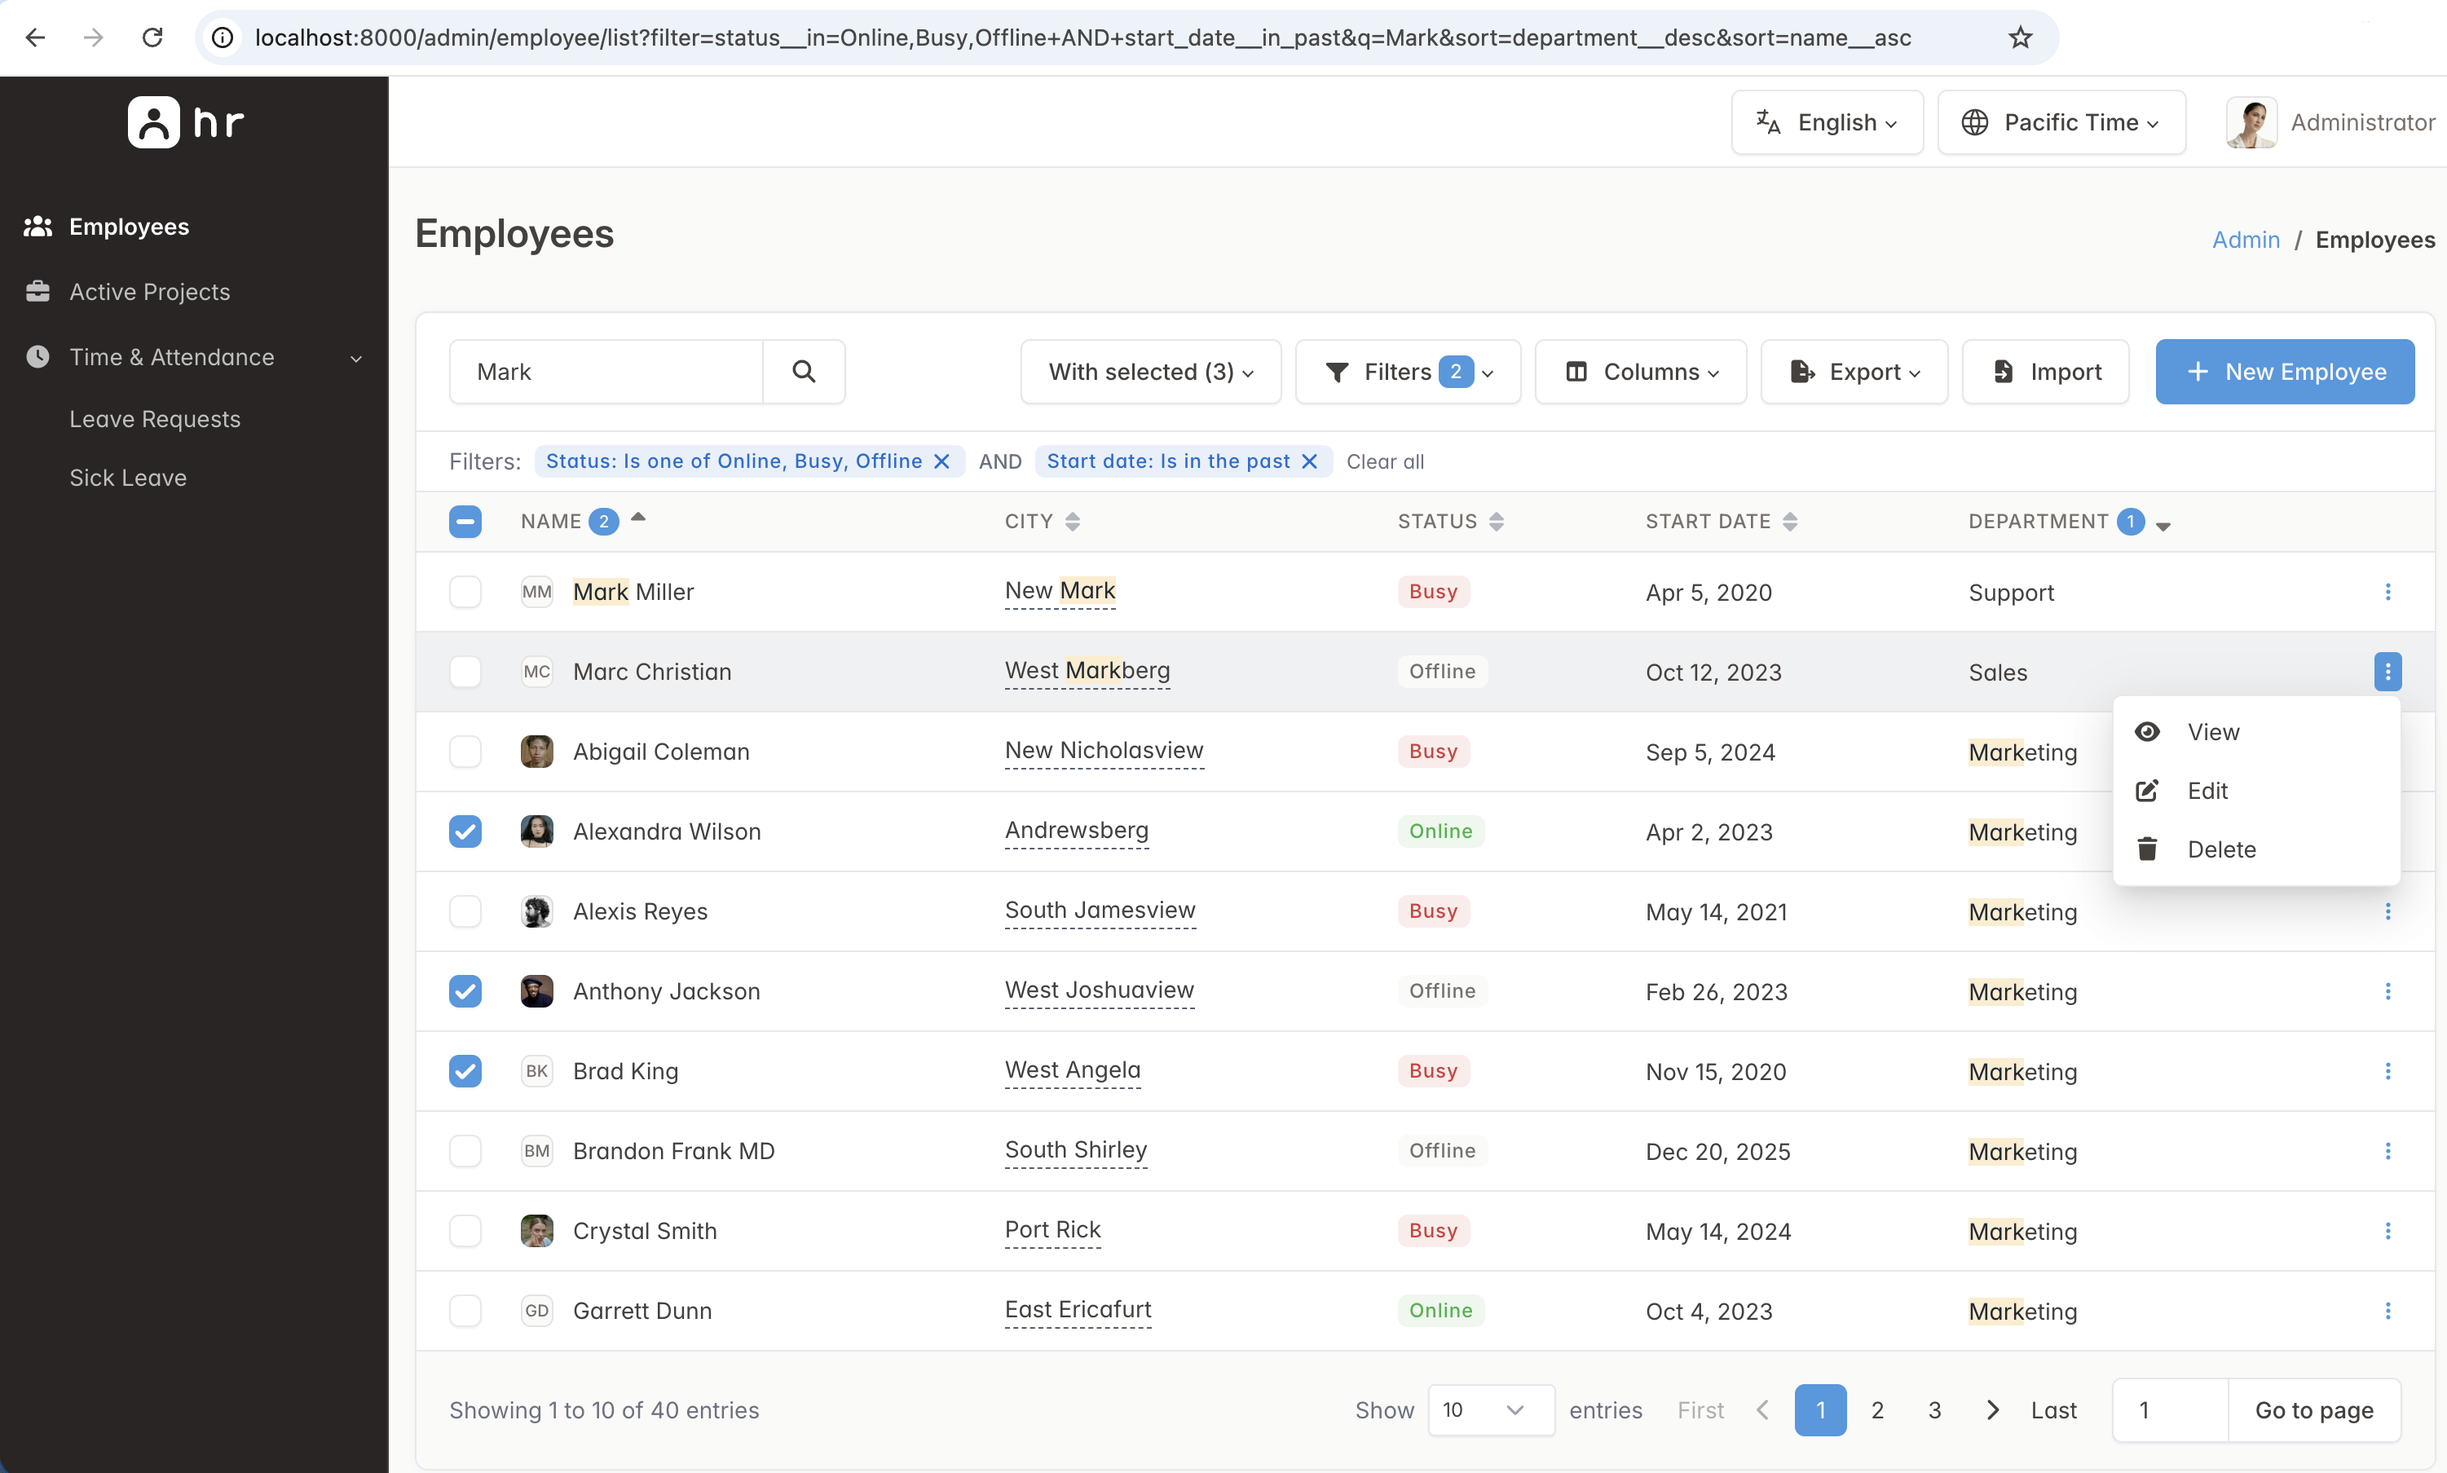
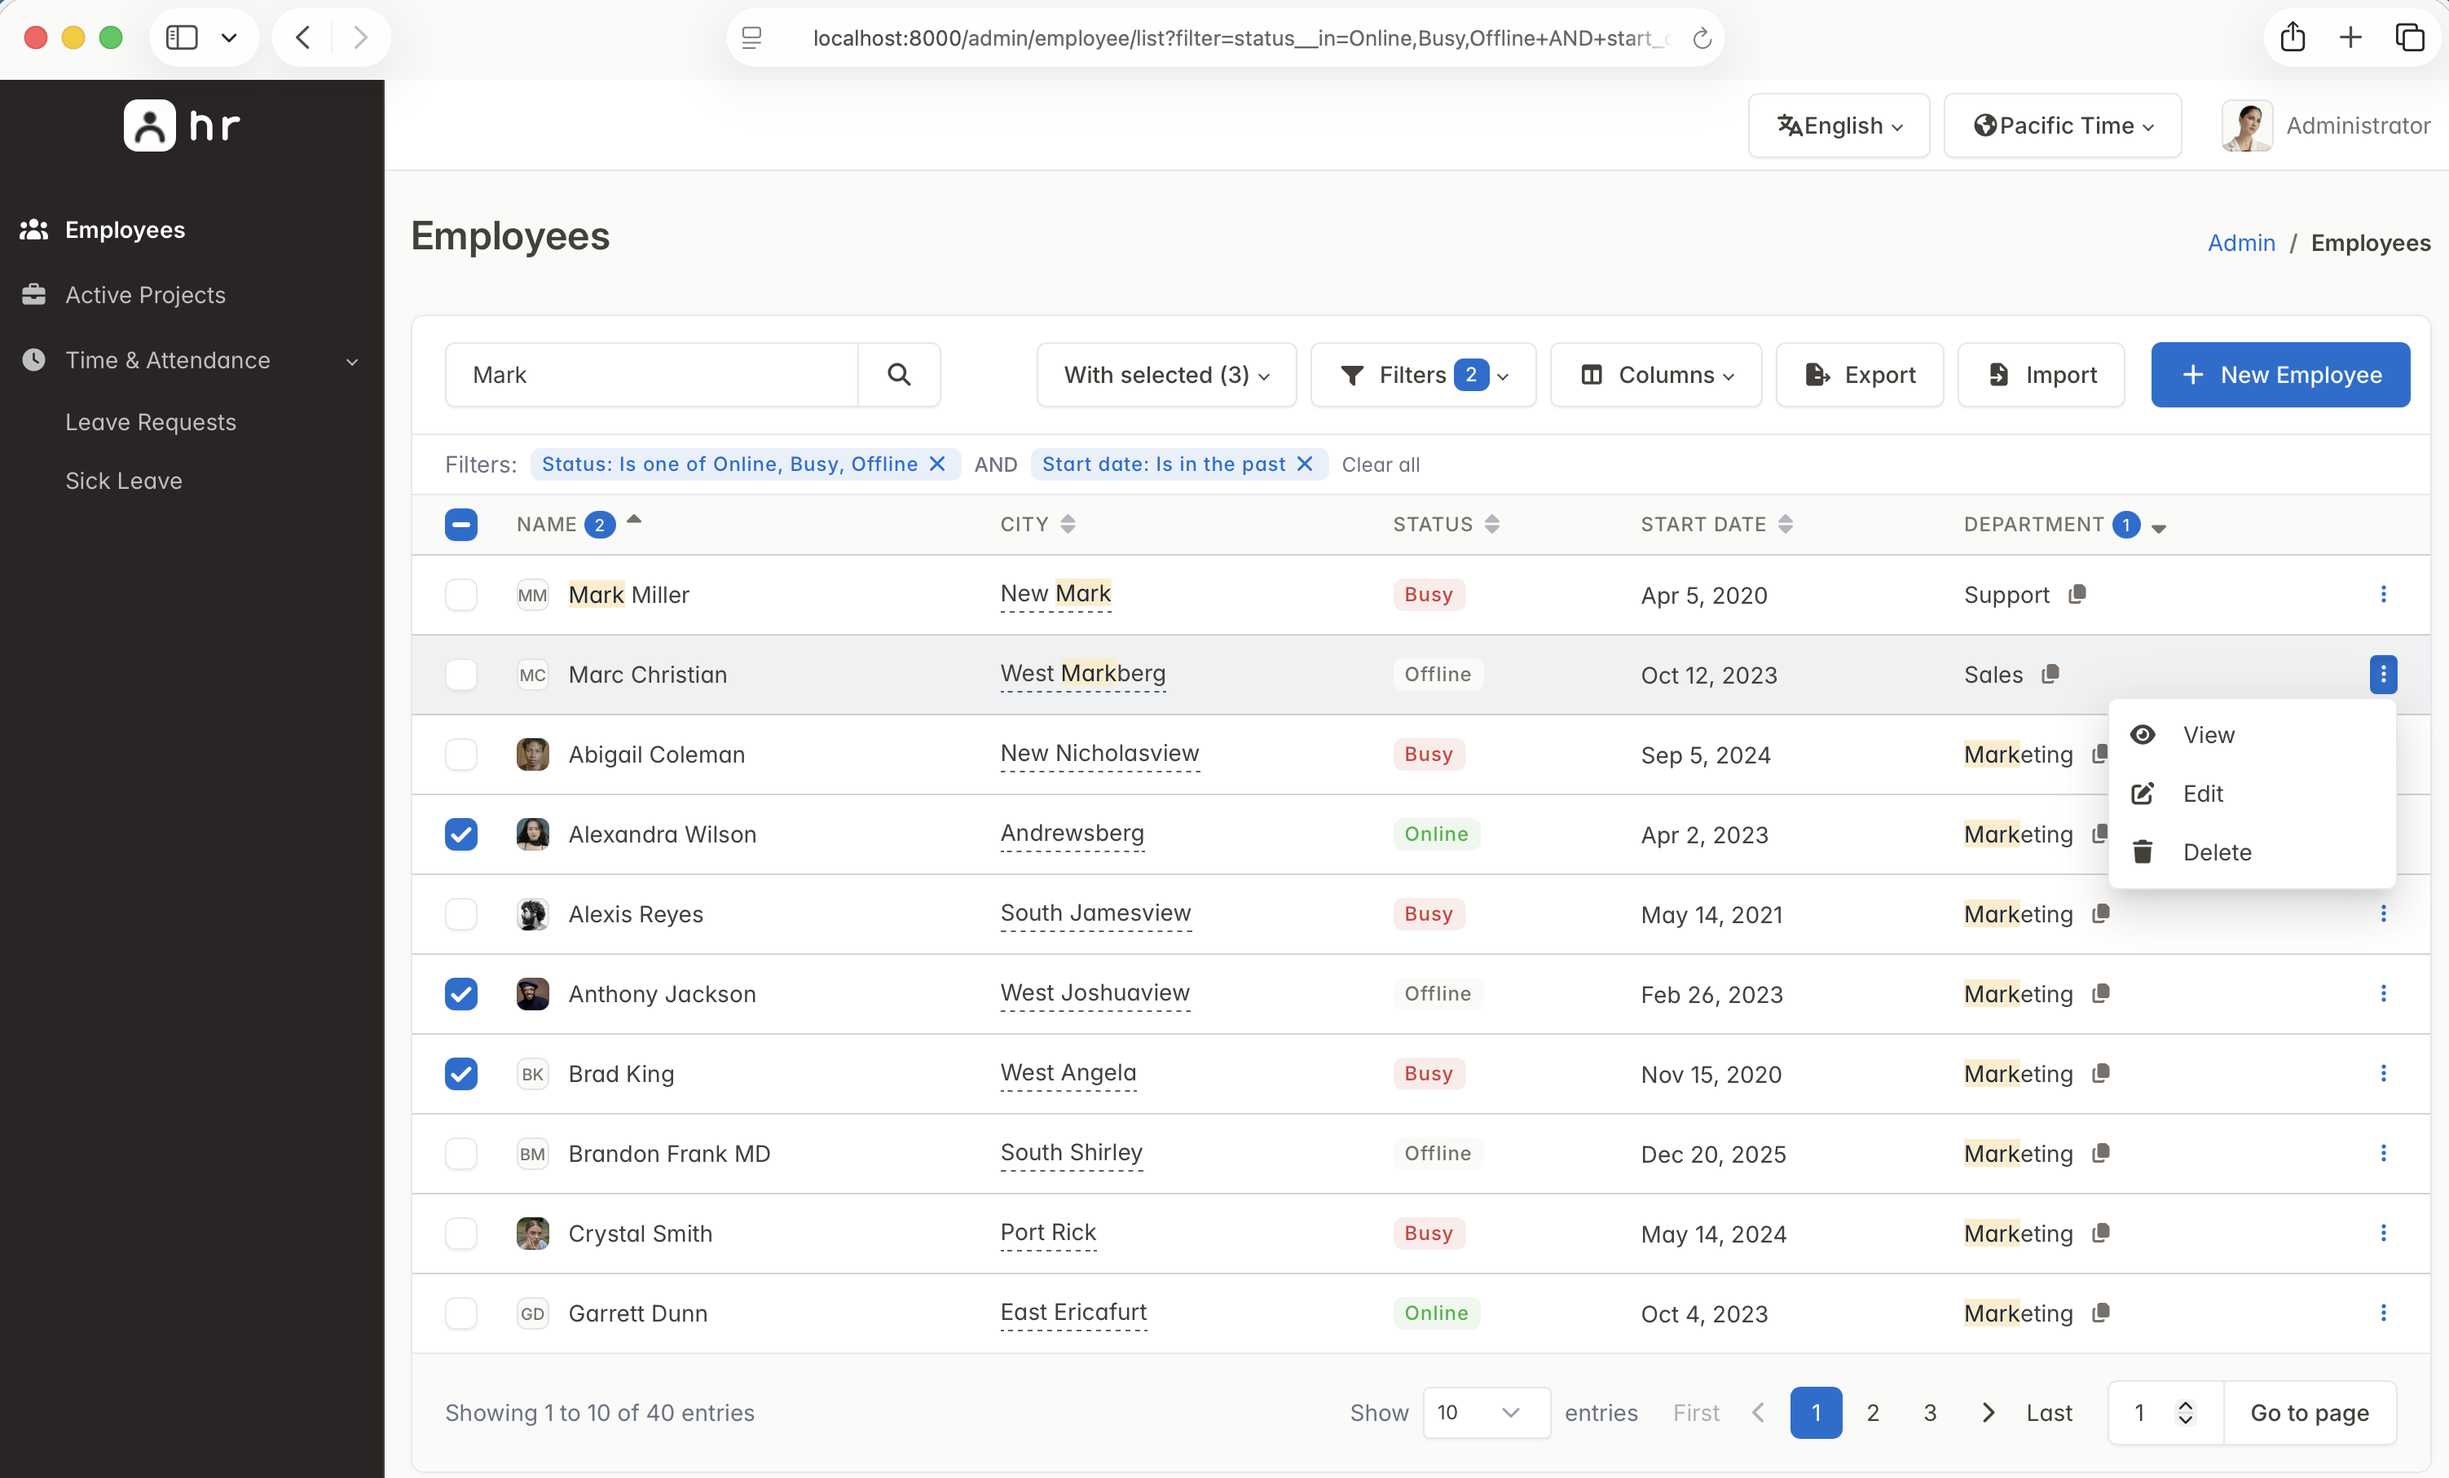
Show filters on home page

diff --git a/docs/index.md b/docs/index.md
@@ -162,6 +162,42 @@ hide:
         ]
     ```
 
+=== "Filters"
+
+    <span class="home-tour-title" role="heading" aria-level="3">Filters</span>
+
+    Extend the built-in query builder with custom filters to support specific business requirements. You can apply complex operations directly to the underlying database model.
+
+    <a class="home-tour-btn" href="user-guide/filters/">View the documentation</a>
+
+    ```python title="filters.py"
+    from datetime import datetime
+    from typing import Any
+
+    from starlette_admin.contrib.sqla import ModelView
+    from starlette_admin.filters.base import BaseFilter, FilterApplyContext, FilterDataType
+
+
+    class ActiveThisMonthFilter(BaseFilter):
+        name = "this_month"
+        label = "Created this month"
+        data_type = FilterDataType.NONE  # no value input: the range is derived from now()
+
+        def apply(self, ctx: FilterApplyContext) -> Any:
+            now = datetime.utcnow()
+            start = now.replace(day=1, hour=0, minute=0, second=0, microsecond=0)
+            col = getattr(ctx.view.model, ctx.field_name)
+            return col.between(start, now)
+
+    class ProductView(ModelView):
+        fields = [
+            DateTimeField(
+                "created_at",
+                filters=[ActiveThisMonthFilter, ...],
+            ),
+        ]
+    ```
+
 === "Actions"
 
     <span class="home-tour-title" role="heading" aria-level="3">Actions</span>

diff --git a/docs/user-guide/filters.md b/docs/user-guide/filters.md
@@ -4,7 +4,6 @@ Every field on a list page can have its own set of filter operators, like `conta
 
 The set of available filters is automatically derived from the field's underlying type. You can easily narrow, extend, or fully replace that set for any specific field.
 
-![Filters example](../../assets/images/filters.png)
 
 ```python
 from starlette_admin.contrib.sqla import ModelView
